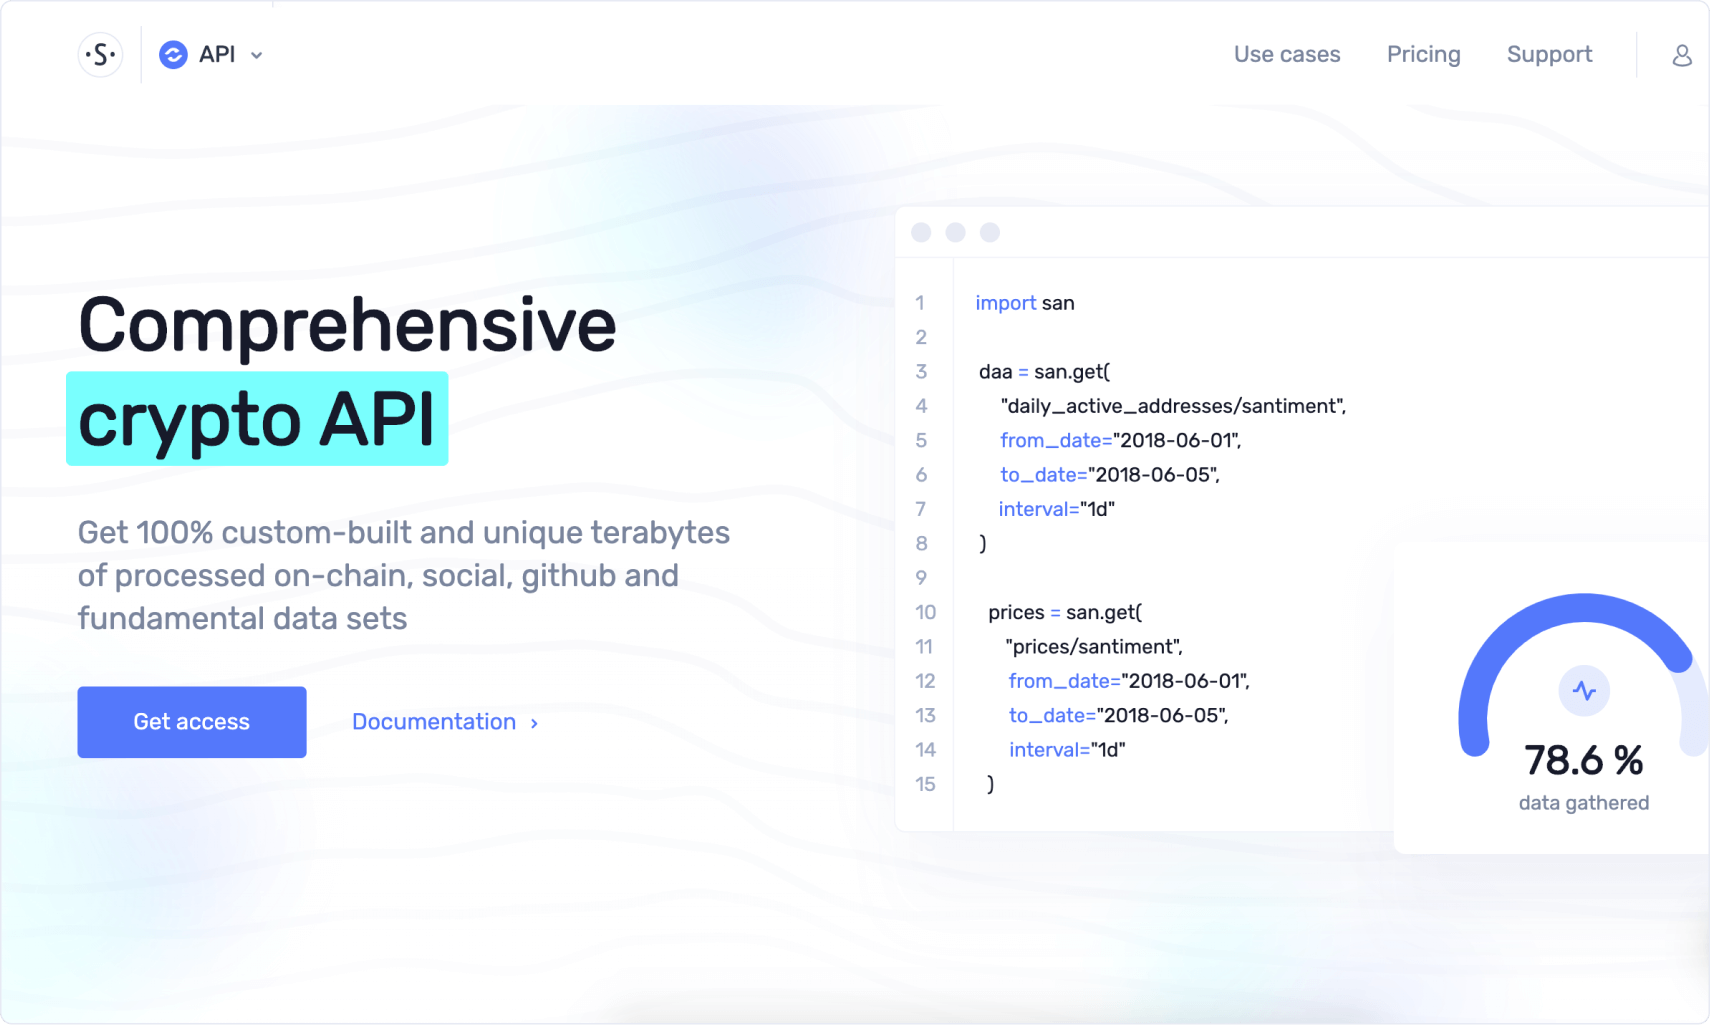
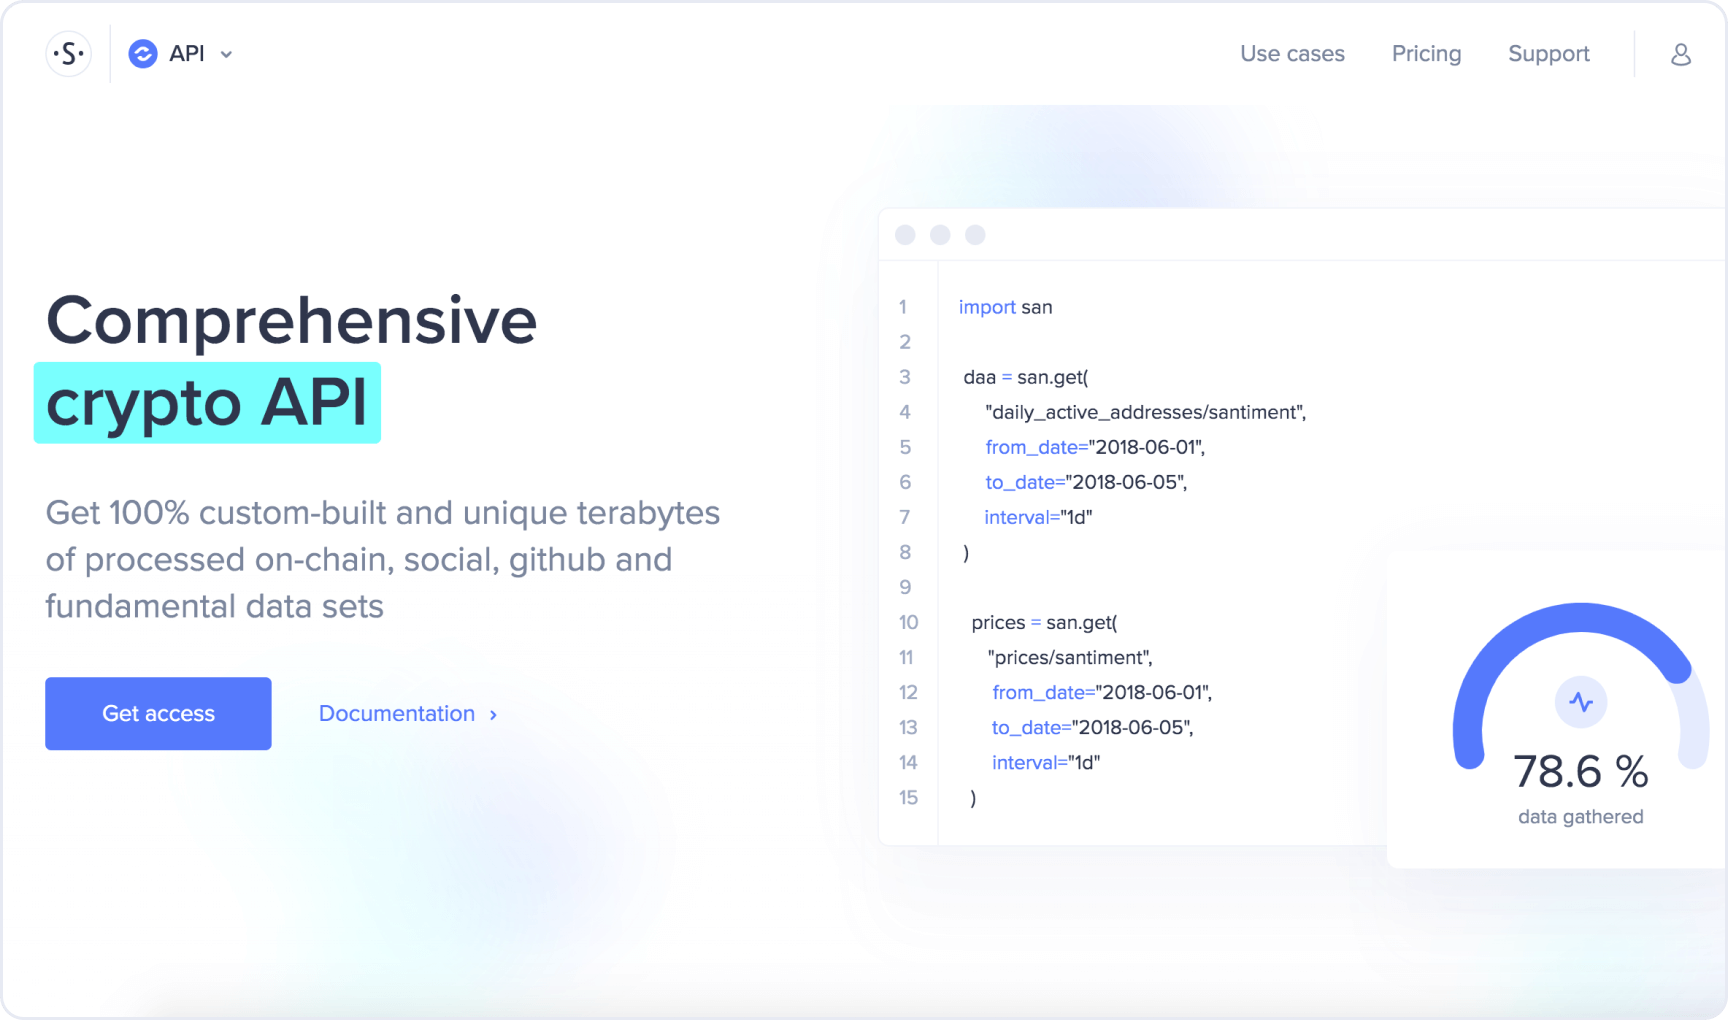
polished products

diff --git a/src/components/Products/Products.module.scss b/src/components/Products/Products.module.scss
@@ -41,8 +41,6 @@
 .img {
   max-width: 1140px;
   width: 60vw;
-  border: 1px solid var(--porcelain);
-  border-radius: 8px;
   margin-top: 26px;
 
   @include responsive('phone-xs', 'phone', 'tablet') {
@@ -52,11 +50,16 @@
 
 .tabs {
   margin-top: 10px;
+
   & div {
-    @include text('h4');
+    padding: 0 24px 14px;
+
+    @include text('h4', 'l');
 
     @include responsive('phone-xs', 'phone', 'tablet') {
-    @include text('body-1');
-  }
+      padding: 0 32px 12px;
+
+      @include text('body-1');
+    }
   }
 }
